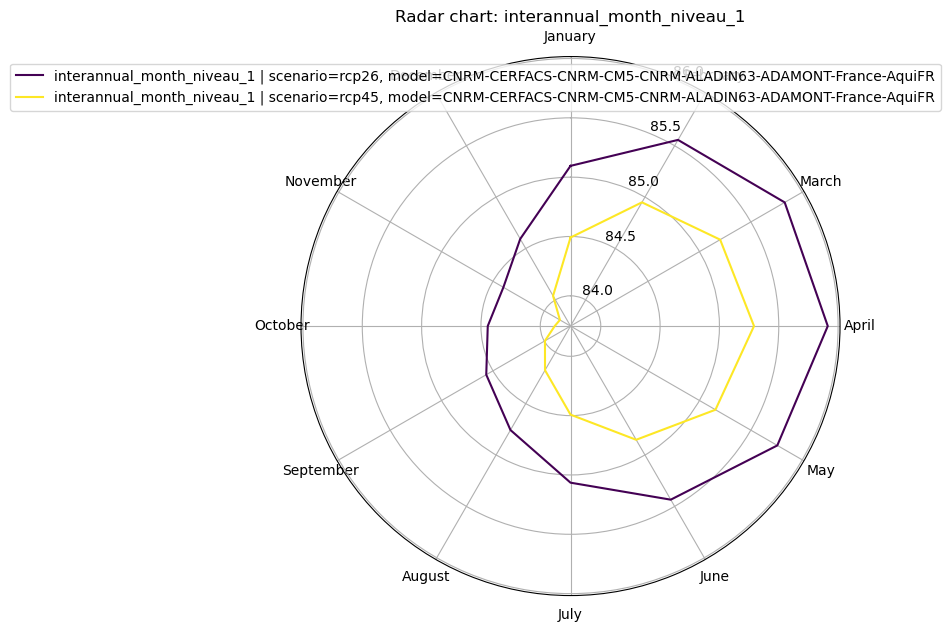
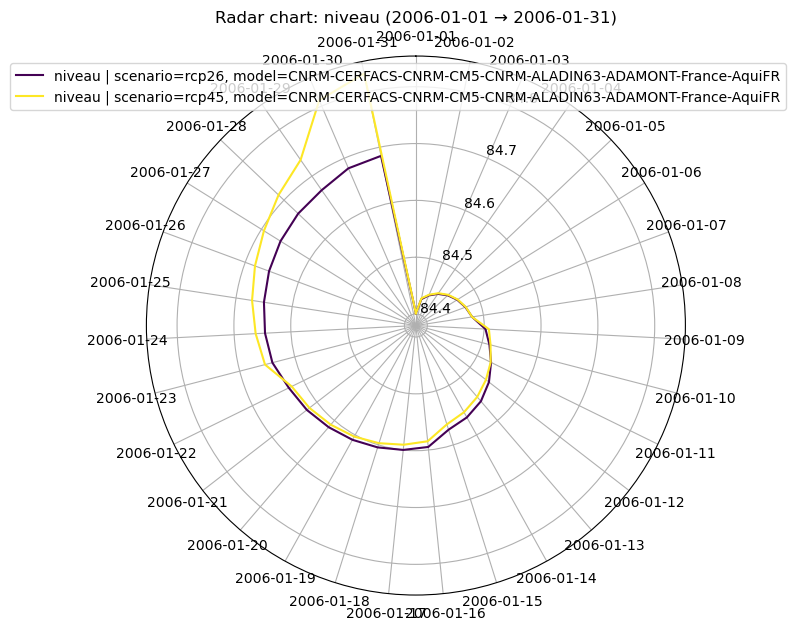
gestion pb bar et radar scénarios

diff --git a/visualization_xr.py b/visualization_xr.py
@@ -474,12 +474,6 @@ def apply_categorical_sort(x_data, sort_key):
 def bar_chart(ds: xr.Dataset):
     """
     Create a bar chart from an xarray Dataset.
-    
-    Interactive function that allows selection of:
-    - X and Y variables
-    - Time period
-    - Custom labels, units, and title
-    - Automatic sorting for months/seasons
     """
     
     if not isinstance(ds, xr.Dataset):
@@ -489,12 +483,17 @@ def bar_chart(ds: xr.Dataset):
     # Variable selection
     # ----------------------
     
-    x_name = ask_variable(ds, prompt="Variable for X-axis: ")
-    y_name = ask_variable(ds, prompt="Variable for Y-axis: ")
-    
-    if x_name == y_name:
-        raise ValueError("X and Y variables must be different.")
+    while True:
+        x_name = ask_variable(ds, prompt="Variable for X-axis: ")
+        y_name = ask_variable(ds, prompt="Variable for Y-axis: ")
+        
+        if x_name == y_name:
+            print("X and Y variables must be different. Please try again.")
+            continue
+        
+        break
 
+    
     # ----------------------
     # Time period selection
     # ----------------------
@@ -550,11 +549,9 @@ def bar_chart(ds: xr.Dataset):
     
     da_y = ds_period[y_name]
     
-    # Get extra dimensions (not matching X dimension)
     x_dim = x_arr.dims[0]
     other_dims = [d for d in da_y.dims if d != x_dim]
     
-    # Handle extra dimensions
     if other_dims:
         results = handle_xarray_dimensions(da_y, main_dims=[x_dim])
     else:
@@ -574,46 +571,61 @@ def bar_chart(ds: xr.Dataset):
         sort_idx = np.arange(len(x_vals))
 
     # ----------------------
-    # Plot
+    # Plot (FIXED VERSION)
     # ----------------------
     
-    for sel, y_vals in results:
-        
-        # Ensure proper length alignment
+    n_series = len(results)
+    x = np.arange(len(x_vals))  # positions de base
+    width = 0.8 / n_series      # largeur des barres
+
+    colors = cm.viridis(np.linspace(0, 1, n_series))
+
+    for i, (sel, y_vals) in enumerate(results):
+
+        # Alignement taille
         if len(y_vals) != len(x_vals):
             if len(y_vals) == 1:
                 y_vals = np.full_like(x_vals, y_vals[0], dtype=float)
             else:
                 y_vals = y_vals[:len(x_vals)]
-        
-        # Convert to float
-        try:
-            y_vals = np.array(y_vals, dtype=float)
-        except (ValueError, TypeError):
-            y_vals = pd.to_numeric(y_vals, errors='coerce').values
-        
-        # Apply sorting
-        x_sorted = x_str_array.iloc[sort_idx].values
+
+        # Conversion float
+        y_vals = pd.to_numeric(y_vals, errors='coerce')
+
+        # Tri
         y_sorted = y_vals[sort_idx]
-        
-        # Create label for legend (if multiple datasets)
+
+        # Label
         label = y_name
         if sel:
             label += " | " + ", ".join(f"{k}={v}" for k, v in sel.items())
-        
-        # Plot
-        colors = cm.viridis(np.linspace(0, 1, len(x_sorted)))
-        ax.bar(x_sorted, y_sorted, color=colors, label=label)
+
+        # Décalage
+        offset = (i - (n_series - 1)/2) * width
+
+        ax.bar(
+            x + offset,
+            y_sorted,
+            width=width,
+            label=label,
+            color=colors[i]
+        )
 
     # ----------------------
     # Styling
     # ----------------------
     
+    ax.set_xticks(x)
+    ax.set_xticklabels(x_str_array.iloc[sort_idx], rotation=45, ha='right')
+
     ax.set_title(title)
     ax.set_xlabel(x_label)
     ax.set_ylabel(y_label)
     ax.grid(axis='y', linestyle='--', alpha=0.6)
-    plt.xticks(rotation=45, ha='right')
+
+    if n_series > 1:
+        ax.legend()
+
     plt.tight_layout()
 
     return fig
@@ -1036,6 +1048,7 @@ def radar_chart(ds: xr.Dataset):
     return fig
 '''
 
+#
 def radar_chart(ds: xr.Dataset):
     """
     Create a radar chart from an xarray Dataset.
@@ -1070,7 +1083,7 @@ def radar_chart(ds: xr.Dataset):
     
     cat_dim = cat_arr.dims[0]
 
-    # Format categories (important if datetime)
+    # Format categories
     if np.issubdtype(cat_arr.dtype, np.datetime64):
         categories = pd.to_datetime(cat_arr.values).strftime("%Y-%m-%d").tolist()
     else:
@@ -1080,12 +1093,10 @@ def radar_chart(ds: xr.Dataset):
     if N < 3:
         raise ValueError("A radar chart requires at least 3 categories")
     
-    # -------- Units --------
+    # -------- Units & Title --------
     
     units_input = input("Units for radar variables (leave empty if none): ").strip()
     units_text = f" ({units_input})" if units_input else ""
-    
-    # -------- Title --------
     
     custom_title = input("Chart title (leave empty for automatic): ").strip()
     
@@ -1094,97 +1105,92 @@ def radar_chart(ds: xr.Dataset):
     else:
         custom_title = f"{custom_title}{units_text}"
     
-    # -------- Legend --------
-    
-    legend_input = input("Legend names (comma-separated, leave empty for defaults): ").strip()
-    
-    if legend_input == "":
-        legend_labels = value_names
-    else:
-        legend_labels = [name.strip() for name in legend_input.split(",")]
-        if len(legend_labels) != len(value_names):
-            raise ValueError("Number of legend names must match number of value variables")
-    
     # -------- Angles --------
     
     angles = np.linspace(0, 2*np.pi, N, endpoint=False).tolist()
     angles += angles[:1]
     
-    # -------- Figure --------
+    # -------- PRE-COMPUTE curves & values --------
     
-    fig, ax = plt.subplots(figsize=(7, 7), subplot_kw=dict(polar=True))
-    
-    ax.set_theta_direction(-1)
-    ax.set_theta_offset(np.pi / 2)
-    
-    # -------- Radial limits --------
-    
+    all_curves = []
     all_values = []
+
     for val_name in value_names:
         da = ds_period[val_name]
 
         if cat_dim not in da.dims:
             continue
 
-        # ✅ FIX : moyenne sur dimensions supplémentaires
-        other_dims = [d for d in da.dims if d != cat_dim]
-        if other_dims:
-            da = da.mean(dim=other_dims, skipna=True)
+        results = handle_xarray_dimensions(da, main_dims=[cat_dim])
 
-        all_values.extend(da.values.flatten())
+        for sel, vals in results:
 
-    all_values = np.array([v for v in all_values if np.isfinite(v)])
+            vals_numeric = pd.to_numeric(vals, errors='coerce')
+
+            if len(vals_numeric) != N:
+                continue
+
+            vals_numeric = np.array(vals_numeric)
+
+            if not np.any(np.isfinite(vals_numeric)):
+                continue
+
+            all_curves.append((val_name, sel, vals_numeric))
+            all_values.extend(vals_numeric[np.isfinite(vals_numeric)])
+
+    if len(all_curves) == 0:
+        raise ValueError("No valid data to plot")
+
+    # -------- Radial limits (GLOBAL) --------
     
-    if len(all_values) == 0:
-        raise ValueError("No valid numeric values found")
+    all_values = np.array(all_values)
+
+    vmin = all_values.min()
+    vmax = all_values.max()
+
+    margin = 0.05 * (vmax - vmin) if vmax != vmin else 1
+
+    # -------- Figure --------
     
-    val_min = all_values.min()
-    val_max = all_values.max()
-    margin = 0.05 * (val_max - val_min) if val_max != val_min else val_max * 0.1
-    ax.set_ylim(val_min - margin, val_max + margin)
+    fig, ax = plt.subplots(figsize=(7, 7), subplot_kw=dict(polar=True))
     
+    ax.set_theta_direction(-1)
+    ax.set_theta_offset(np.pi / 2)
+
+    ax.set_ylim(vmin - margin, vmax + margin)
+
     # -------- Colors --------
     
-    colors = cm.viridis(np.linspace(0, 1, len(value_names)))
-    
+    colors = cm.viridis(np.linspace(0, 1, len(all_curves)))
+
     # -------- Plot --------
     
-    for i, val_name in enumerate(value_names):
-        
-        da = ds_period[val_name]
-
-        if cat_dim not in da.dims:
-            continue
-
-        #  FIX PRINCIPAL
-        other_dims = [d for d in da.dims if d != cat_dim]
-        if other_dims:
-            da = da.mean(dim=other_dims, skipna=True)
-
-        vals = da.values
-
-        # Conversion propre
-        vals_numeric = pd.to_numeric(vals, errors='coerce')
-
-        if len(vals_numeric) != N:
-            raise ValueError(f"{val_name}: mismatch between values and categories")
+    for i, (val_name, sel, vals_numeric) in enumerate(all_curves):
 
         values_list = vals_numeric.tolist()
-        values_list += values_list[:1]  # close radar
-        
-        label = legend_labels[i] if i < len(legend_labels) else val_name
-        
-        ax.plot(angles, values_list, label=label, color=colors[i])
-        # ax.fill(angles, values_list, alpha=0.1, color=colors[i])
-    
+        values_list += values_list[:1]
+
+        label = val_name
+        if sel:
+            label += " | " + ", ".join(f"{k}={v}" for k, v in sel.items())
+
+        ax.plot(
+            angles,
+            values_list,
+            label=label,
+            color=colors[i]
+        )
+
     # -------- Styling --------
     
     ax.set_xticks(angles[:-1])
     ax.set_xticklabels(categories)
     ax.set_title(custom_title)
-    ax.legend(loc="upper right", bbox_to_anchor=(1.05, 1))
-    
+
+    ax.legend(loc="upper right", bbox_to_anchor=(1.2, 1))
+
     return fig
+#
 
 # ---------------- Histogram Chart ----------------
 
